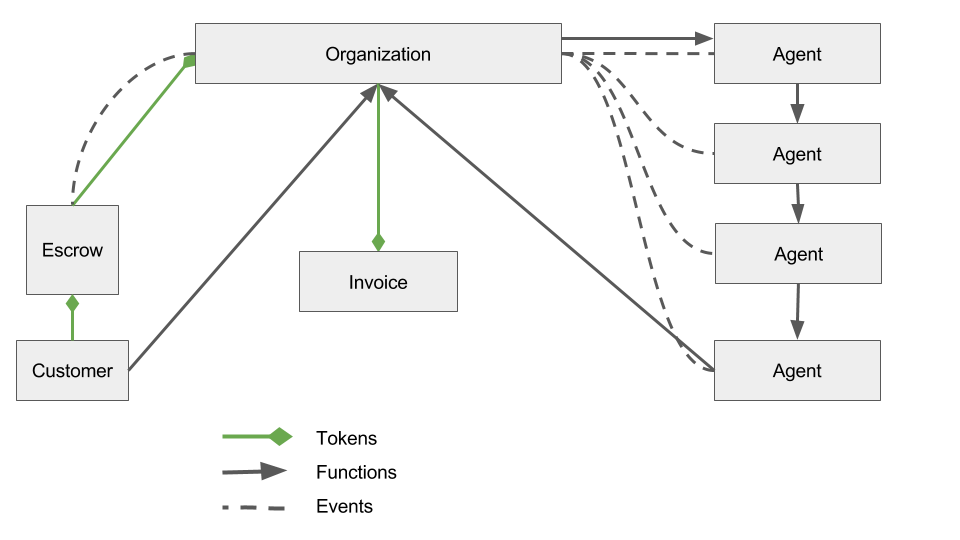
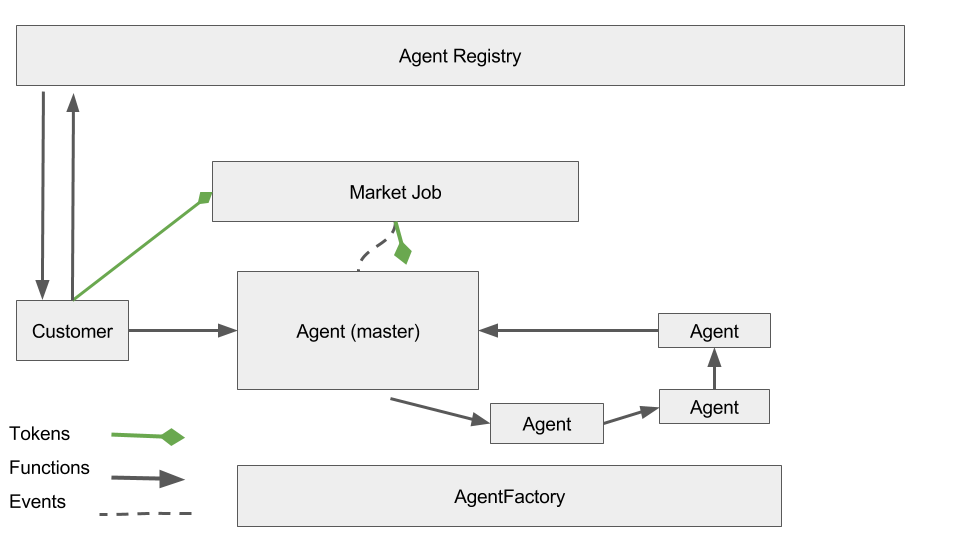
multiple Agent same script | get addresses programmatically after migration | updated docs and specs

diff --git a/js/index.js b/js/index.js
@@ -12,7 +12,8 @@
 //web3js
 const Web3 = require('web3')
 const web3 = new Web3(Web3.givenProvider || 'http://localhost:8545')
-const OWNER = '0xe71798b14a87c9f80f66ad0e148a65a1cc56b73b'
+const OWNER = web3.eth.accounts[0]
+ console.log(OWNER)
 //const OWNER = '0xb9d2bdfe453640730919fbd8acc5083e991177ff'
 //contracts ABI 
 const agentFactory = require('../build/contracts/AgentFactory.json')
@@ -20,7 +21,7 @@ const agentRegistry = require('../build/contracts/AgentRegistry.json')
 const agent = require('../build/contracts/Agent.json')
 const escrow = require('../build/contracts/Escrow.json')
 //constants 
-const AGENT_FACTORY_ADDRESS = '0xc2950c3526254417351438babe5f2100cba90bf2'
+const AGENT_FACTORY_ADDRESS = '0xd364ede69b6c1469fb19c145b3ad6f753f7f793a'
 const AGENT_REGISTRY_CONTRACT = '0x7988941a7d6037ef89b031af8606b88a1aa09e91'
 const AGENT_ADDRESS = '0x2bb2fdf0eb609046bbba217bca0765759a95600d'
 const ESCROW_ADDRESS = '0x278c4b8a81eebc94f2b2ebcac2ae33d4b889f5eb'
@@ -36,7 +37,7 @@ const GAS = 1500000, GAS_PRICE = 30000000000000,
 //Creates a new agent on the blockchain
 async function joinNetwork() {
   return await new Promise((resolve,reject) =>{
-    agentFactoryContract.methods.create().call({from:OWNER})
+    agentFactoryContract.methods.create().send({from:OWNER})
       .then((result) => {
         resolve(result)
       })
@@ -102,12 +103,14 @@ async function getAgentById(id) {
 async function main() {
   const wordSenseDisambiguation = 0, textSummarization = 1
   
-  //const address = await joinNetwork()
+  const address = await joinNetwork()
+  const address2 = await joinNetwork()
+  console.log(address,address2)
   //console.log(address)
   //await advertiseService(textSummarization,address)
   
-  await appendPacket("0x0")
-  const r = await getPacket(0)
+  //await appendPacket("0x0")
+  //const r = await getPacket(0)
 
   //const providers = await findServiceProviders(textSummarization)
   //let target 

diff --git a/migrations/2_deploy_contracts.js b/migrations/2_deploy_contracts.js
@@ -1,3 +1,5 @@
+const fs = require('fs')
+
 const Agent = artifacts.require('agent/Agent.sol')
 const AgentFactory = artifacts.require('agent/AgentFactory.sol')
 const AgentRegistry = artifacts.require('registries/AgentRegistry.sol')
@@ -19,5 +21,23 @@ module.exports = function(deployer) {
     FixedSupplyToken,
     OrganizationFactory,
     SingularityNetToken
-  ])
+  ]).then(() => {
+    const fileName = "addresses.json"
+    const content = {
+      Agent: Agent.address,
+      AgentFactory: AgentFactory.address,
+      AgentRegistry: AgentRegistry.address,
+      FixedSupplyToken: FixedSupplyToken.address,
+      Escrow: Escrow.address,
+      ownable: ownable.address,
+      Organization: Organization.address,
+      OrganizationFactory: OrganizationFactory.address,
+      SingularityNetToken: SingularityNetToken.address
+    }
+
+    fs.writeFile(fileName, JSON.stringify(content), 'utf-8', (err) => {
+      if (err) { throw err }
+      console.log("Contracts' addresses saved in ./" + fileName)
+    })
+  })
 };

diff --git a/test/TestAgentFactory.js b/test/TestAgentFactory.js
@@ -6,14 +6,21 @@ contract('AgentFactory', function () {
     let agentFactory
 
     beforeEach(async () => {
-      agentFactory = await Agent.new()
+        agentFactory = await Agent.new()
     })
 
-    it('verifies that somehow can acreate a new agent', async () => {
+    it('verifies that someone can create a new agent', async () => {
 
         let result = await agentFactory.create()
         assert.isNotNull(result)
 
     })
- 
+
+    it('verifies that somehow can create multiple agent', async () => {
+        let result = await agentFactory.create()
+        let result2 = await agentFactory.create()
+        console.log(result,result2)
+        //assert.equal(result,result2,'Errors, no multiple agent created')
+    })
+
 })

diff --git a/py/main.py b/py/main.py
@@ -3,6 +3,11 @@ from web3 import Web3, HTTPProvider, IPCProvider
 
 web3 = Web3(HTTPProvider('http://localhost:8545'))
 
+def getAddressByName(addresses,name):
+  for key, value in addresses.items():
+    if key==name:
+      return value
+
 def parseAbi(data):
   for key, value in data.items():
     if key=='abi':
@@ -50,39 +55,25 @@ Private Keys
 
 #payloads
 payload = {'from': web3.eth.coinbase, 'gas': 1500000, 'gasPrice':30000000000000}
-payload_2 = {'from': '0xdce19aee0b67edfba78a4201618c6bdf29ed12f4', 'gas': 1500000, 'gasPrice':30000000000000}
-payload_3 = {'from': '0x8111407847a04a7a5d197298adba46381da6c33a', 'gas': 1500000, 'gasPrice':30000000000000}
 
 #ABI(s)
+agentRegistryAbi = parseAbi(json.loads(open('../build/contracts/AgentRegistry.json','r').read()))
 agentFactoryAbi = parseAbi(json.loads(open('../build/contracts/AgentFactory.json','r').read()))
 agentAbi = parseAbi(json.loads(open('../build/contracts/Agent.json','r').read()))
-escrowAbi = parseAbi(json.loads(open('../build/contracts/Escrow.json','r').read()))
-agentRegistryAbi = parseAbi(json.loads(open('../build/contracts/AgentRegistry.json','r').read()))
 #addresses
-agentFactoryAddress = '0x8b6d3d6db2333e6781fa4918926dd742152976c8'
-agentAddress = '0x45f4f554434a3157ddfb38d17b2b9d4504a8a045'
-escrowAddress = '0x6394dbb6cf1fbc5985eb799966e43e26cb47103e'
-agentRegistryAddress = '0xbea2b908a51e8cc5f76238cf022d0d5be1c3c5ac'
+agentRegistryAddress = getAddressByName(json.loads(open('../addresses.json','r').read()),'AgentRegistry')
+agentFactoryAddress = getAddressByName(json.loads(open('../addresses.json','r').read()),'AgentFactory')
+agentAddress = getAddressByName(json.loads(open('../addresses.json','r').read()),'Agent')
+
+
 #Contracts
+agentRegistryContract = web3.eth.contract(abi = agentRegistryAbi, address=agentRegistryAddress)
 agentFactoryContract = web3.eth.contract(abi = agentFactoryAbi, address=agentFactoryAddress)
 agentContract = web3.eth.contract(abi = agentAbi, address=agentAddress)
-agentRegistryContract = web3.eth.contract(abi = agentRegistryAbi, address=agentRegistryAddress)
-escrowContract = web3.eth.contract(abi= escrowAbi, address=escrowAddress)
+
 
 def joinNetwork():
-  return agentFactoryContract.call(payload).create()
-
-def newAgent():
-    return agentFactoryContract.call(payload_2).create()
-
-def newAgentTwo():
-    return agentFactoryContract.call(payload_3).create()
-
-def appendPacket(packet):
-  return agentContract.transact(payload).appendPacket(packet)
-
-def getPacket(position):
-  return agentContract.call(payload).getPacket(position)
+  return agentFactoryContract.transact(payload).create()
 
 def advertiseService(service,agent):
   return agentRegistryContract.transact(payload).addAgent(service,agent)
@@ -99,17 +90,19 @@ def getAgentsById(id):
 
 
 # Here I'm joining the network and putting in myself the address on the blockchain
-myself = joinNetwork()
-print("myself           {0}".format(myself))
+myself1 = joinNetwork()
+print("myself_1          {0}".format(myself1))
+myself2 = joinNetwork()
+print("myself_2           {0}".format(myself2))
 
-test_agent = newAgent()
-print("test_agent       {0}".format(test_agent))
+#test_agent = newAgent()
+#print("test_agent       {0}".format(test_agent))
 
-test_agent_two = newAgentTwo()
-print("test_agent_two   {0}".format(test_agent_two))
+#test_agent_two = newAgentTwo()
+#print("test_agent_two   {0}".format(test_agent_two))
 
 #Here I'm inserting a new agent for a determined service
-print("\n\nadvertize service\n")
+'''print("\n\nadvertize service\n")
 print(advertiseService(0,myself))
 print(advertiseService(0,test_agent))
 print(advertiseService(72182,test_agent))
@@ -121,9 +114,5 @@ print(getAgentsById(findServiceProviders(0)[1]))
 print("\n\nfind service providers for 72182\n")
 print(findServiceProviders(72182)[0])
 test_provider_address = findServiceProviders(72182)[0]
-test_provider = getAgentsById(test_provider_address)
+test_provider = getAgentsById(test_provider_address)'''
 
-## Here I'm adding a packet (bytes32) to the current agent
-#print appendPacket("0x0000000001")
-## Then I'm getting back using a zero-based position
-#print getPacket(0)

diff --git a/docs/SNContractsDesignSpecs.md b/docs/SNContractsDesignSpecs.md
@@ -3,20 +3,18 @@ Smart contract design
 
 ### Contracts
 
-* SN Token
-* TokenFactory
-* Organization & OrgFactory
-* Agent & AgentFactory
-* Registry
-* Escrow
-* Invoice
+* AGI Token
+* RoboToken (also T-Coin or Spikes)
+* MarketJob
+* Agent
+* AgentFactory
+* AgentRegistry
 
 
 ### Actors
 * Customer
-* Organization
+* Job
 * Agent(s) (multiple services for each)
-* Packet
 * Token
 
 
@@ -24,23 +22,22 @@ Smart contract design
 
 ### Customer Flow
 1) Customer request a job  
-2) Org accepts job  
-3) Escrow account is created and funds placed in  	
-4) Org signals completion of job  
-5) Escrow funds moved to org  
+2) An off-chain estimation happens on the customer's request
+3) Finds service providers trought AgentRegistry
+4) Contact an Agent and append a Job (he becomes the agent master)
+5) The master agent create a MarketJob contract with payer and payee
+6) Once th job is done the tokens are swapped from customer's account to agent master 
 
 
 ### Agent Flow
 1) Start Agent  
-2) Register the service(s) into the Registry   
-3) Join an organization   
-4) Org signals a new Packet Appended based on the Registry mapping  
-5) The Agent complete the job and signals the org with an Invoice  
-6) The org do a Proposal (sub-contract) another agent if needed or return if finished  
-7) The org communicate to the Agent where to pass the current packet (eg another agent)  
-8) The org receive the funds from Escrow and pass to  
+2) Register the service(s) into the Registry    
+4) a new event  triggered new Packet Appended based on the Registry mapping  
+5) The Agent(s) complete the job and signals marketJob
+6) The tokens are automaticcaly swapped 
+7) Create a pull mecahnism for sub-agent to withdrawal funds from master agent  
 
-We repeat 6-7 until the job is done and communicate to the agent to send the packet back to the org, so the org signals the escrow to release the funds based on the array of invoices the org collected and pay eith tokens the agents.
+
 
 
 ### Agent (pseudo)API 
@@ -50,8 +47,6 @@ To make your app work on Ethereum, you can use the web3 object provided by the w
 ### Methods
 
 * joinNetwork() : address
-* appendPacket(packet) : void 
-* getPacket(uint id) : bytes
 * advertiseService(uint id, address) : void
 * findServiceProviders(uint service) : uint[]
 * getAgentbyId(uint id) : address
